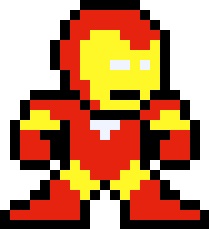
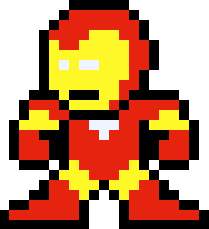
Dos player añadidos y movimiento fluido

diff --git a/game.js b/game.js
@@ -21,13 +21,23 @@ let Game = {
 		this.interval = setInterval(() => {
 			this.drawAll()
 			this.moveAll()
-			this.pickBall()
+			this.pickBall1()
+			this.pickBall2()
 			this.setListeners()
 		}, 1000 / this.fps)
 	},
 
 	reset: function() {
-		this.player = new Player(this.ctx, 0, this.height, 'images/deadpool-small.png')
+		this.player = new Player(this.ctx, 0, this.height, 'images/deadpool-small.png', {
+			RIGHT: { code: 39, down: false },
+			LEFT: { code: 37, down: false },
+			JUMP: { code: 38, down: false }
+		})
+		this.player2 = new Player(this.ctx, 150, this.height, 'images/ironman.png', {
+			RIGHT: { code: 68, down: false },
+			LEFT: { code: 65, down: false },
+			JUMP: { code: 87, down: false }
+		})
 		this.ball = new Ball(this.ctx, this.height, this.width)
 		this.basket = new Basket(this.ctx, this.width, this.height)
 	},
@@ -35,6 +45,7 @@ let Game = {
 	drawAll: function() {
 		Background.draw(this.ctx, this.width, this.height)
 		this.player.draw()
+		this.player2.draw()
 		this.ball.draw()
 		this.basket.draw()
 	},
@@ -42,10 +53,11 @@ let Game = {
 	moveAll: function() {
 		this.ball.move()
 		this.player.move()
+		this.player2.move()
 		this.colisions()
 	},
 
-	pickBall: function() {
+	pickBall1: function() {
 		if (
 			this.ball.x + this.ball.width > this.player.x &&
 			this.ball.x < this.player.x + this.player.width &&
@@ -58,21 +70,43 @@ let Game = {
 			this.ball.velY = 0
 			return true
 		}
-		return false
+	},
+
+	pickBall2: function() {
+		if (
+			this.ball.x + this.ball.width > this.player2.x &&
+			this.ball.x < this.player2.x + this.player2.width &&
+			this.ball.y + this.ball.height > this.player2.y - this.player2.height &&
+			this.ball.y < this.player2.y
+		) {
+			this.ball.x = this.player2.x
+			this.ball.y = this.player2.y - 65
+			this.ball.velX = 0
+			this.ball.velY = 0
+			return true
+		}
 	},
 
 	setListeners: function() {
-		document.onkeypress = e => {
-			if (e.keyCode === 32 && this.pickBall()) {
+		document.addEventListener('keypress', e => {
+			if (e.keyCode === 32 && this.pickBall1()) {
 				this.ball.x += 60
 				this.ball.velX = 5
 				this.ball.velY = -15
 			}
-		}
+		})
+		document.addEventListener('keypress', e => {
+			if (e.keyCode === 103 && this.pickBall2()) {
+				this.ball.x -= 60
+				this.ball.velX = -5
+				this.ball.velY = -15
+			}
+		})
 	},
 
 	colisions: function() {
 		if (
+			//Colision bola con el tablero
 			this.ball.x + this.ball.width > this.basket.x &&
 			this.ball.y < this.basket.y + this.basket.height &&
 			this.ball.y + this.ball.height > this.basket.y
@@ -80,6 +114,7 @@ let Game = {
 			this.ball.velX *= -1
 		}
 		if (
+			//Colision bola con parte izquierda del aro
 			this.basket.rimX < this.ball.x + this.ball.width &&
 			this.basket.rimX > this.ball.x &&
 			this.ball.y + this.ball.height > this.basket.rimY &&
@@ -88,6 +123,7 @@ let Game = {
 			this.ball.velY *= -this.ball.bounce
 		}
 		if (
+			//Colision bola con parte derecha del aro
 			this.basket.rimX + this.basket.rimWidth < this.ball.x + this.ball.width &&
 			this.basket.rimX + this.basket.rimWidth > this.ball.x &&
 			this.ball.y + this.ball.height > this.basket.rimY &&
@@ -97,14 +133,3 @@ let Game = {
 		}
 	}
 }
-
-// drawAll: function() {
-// 	Background.draw(this.ctx, this.width, this.height)
-// 	this.player.draw()
-// 	Ball.draw(this.ctx, this.height, this.width)
-// },
-
-// moveAll: function() {
-// 	Ball.move()
-// 	this.player.move()
-// }

diff --git a/player.js b/player.js
@@ -1,5 +1,5 @@
 class Player {
-	constructor(ctx, x, gameHeight, src) {
+	constructor(ctx, x, gameHeight, src, keys) {
 		this.ctx = ctx
 		this.x = x
 		this.gameHeight = gameHeight
@@ -7,13 +7,13 @@ class Player {
 		this.y0 = this.gameHeight - 100
 		this.image = new Image()
 		this.image.src = src
-
+		this.keys = keys
 		this.width = 80
 		this.height = 100
 		this.velX = 8
 		this.velY = 1
 		this.gravity = 0.5
-		this.serListeners()
+		this.setListeners()
 	}
 
 	draw() {
@@ -27,24 +27,59 @@ class Player {
 			this.y = this.gameHeight - 100
 			this.velY = 0
 		}
-	}
-
-	serListeners() {
-		document.onkeydown = e => {
-			switch (e.keyCode) {
-				case 39:
-					this.x += this.velX
-					break
-				case 37:
-					this.x -= this.velX
-					break
-				case 38:
-					if (this.y === this.y0) {
-						this.y -= 50
-						this.velY -= 10
-					}
-					break
+		if (this.keys.RIGHT.down) {
+			this.x += this.velX
+		}
+		if (this.keys.LEFT.down) {
+			this.x -= this.velX
+		}
+		if (this.keys.JUMP.down) {
+			if (this.y === this.y0) {
+				this.y -= 50
+				this.velY -= 10
 			}
 		}
+	}
+
+	setListeners() {
+		document.addEventListener('keydown', e => {
+			switch (e.keyCode) {
+				case this.keys.RIGHT.code:
+					this.keys.RIGHT.down = true
+					break
+				case this.keys.LEFT.code:
+					this.keys.LEFT.down = true
+					break
+				case this.keys.JUMP.code:
+					this.keys.JUMP.down = true
+					break
+			}
+		})
+		document.addEventListener('keyup', e => {
+			switch (e.keyCode) {
+				case this.keys.RIGHT.code:
+					this.keys.RIGHT.down = false
+					break
+				case this.keys.LEFT.code:
+					this.keys.LEFT.down = false
+					break
+				case this.keys.JUMP.code:
+					this.keys.JUMP.down = false
+					break
+			}
+		})
+		// document.onkeyup = e => {
+		// 	switch (e.keyCode) {
+		// 		case this.keys.RIGHT.code:
+		// 			this.keys.RIGHT.down = false
+		// 			break
+		// 		case this.keys.LEFT.code:
+		// 			this.keys.LEFT.down = false
+		// 			break
+		// 		case this.keys.JUMP.code:
+		// 			this.keys.JUMP.down = false
+		// 			break
+		// 	}
+		// }
 	}
 }

diff --git a/ball.js b/ball.js
@@ -43,51 +43,3 @@ class Ball {
 		if (this.velX < 0) this.velX += this.friction
 	}
 }
-
-// let Ball = {
-// 	ctx: undefined,
-// 	gameHeight: undefined,
-// 	gameWidth: undefined,
-// 	x: undefined,
-// 	y: undefined,
-// 	width: 35,
-// 	height: 35,
-// 	velY: 1,
-// 	velX: 0,
-// 	bounce: 0.7,
-// 	gravity: 0.5,
-// 	friction: 0.03,
-// 	image: new Image(),
-
-// 	draw: function(ctx, gameHeight, gameWidth) {
-// 		this.image.src = 'images/ball.png'
-// 		this.gameHeight = gameHeight
-// 		this.ctx = ctx
-// 		this.gameWidth = gameWidth
-// 		this.x = this.gameWidth / 2
-// 		this.y = this.gameHeight - 400
-// 		this.ctx.drawImage(this.image, this.x, this.y, this.width, this.height)
-// 	},
-
-// 	move: function() {
-// 		this.y += this.velY
-// 		this.velY += this.gravity
-// 		this.x += this.velX
-// 		console.log(this.y)
-// 		if (this.x + this.width > this.gameWidth || this.x < 0) {
-// 			this.velX *= -1
-// 		}
-// 		if (this.y + this.height > this.gameHeight - 100) {
-// 			this.y = this.gameHeight - this.height - 100
-// 			this.velY *= -this.bounce
-// 			if (this.velY < 0 && this.velY > -2.5) this.velY = 0
-// 			if (Math.abs(this.velX) < 1.1) this.velX = 0
-// 			this.xFriction()
-// 		}
-// 	},
-
-// 	xFriction: function() {
-// 		if (this.velX > 0) this.velX -= this.friction
-// 		if (this.velX < 0) this.velX += this.friction
-// 	}
-// }
